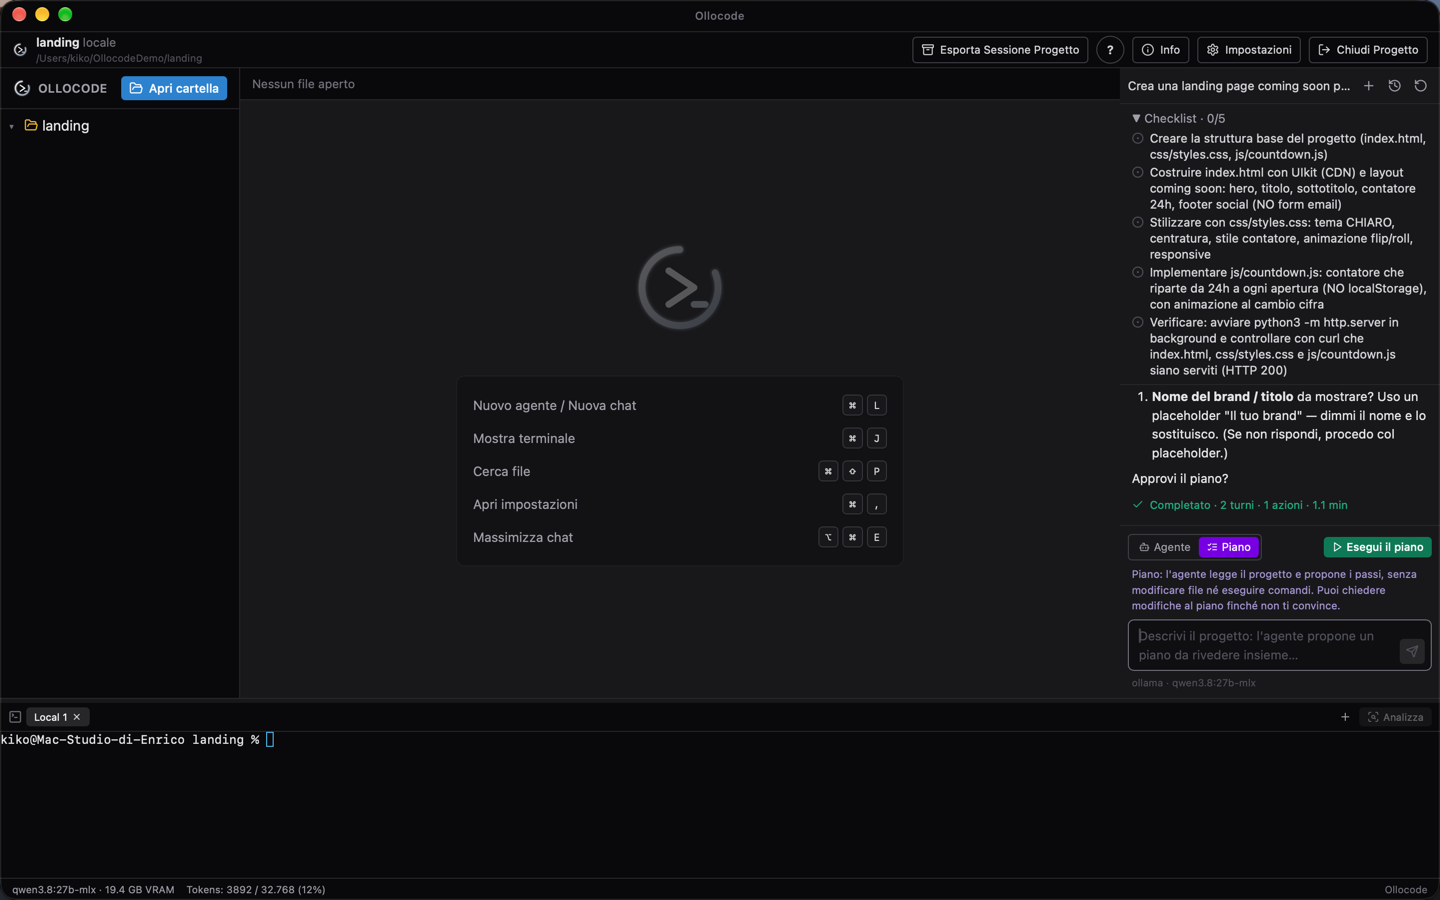
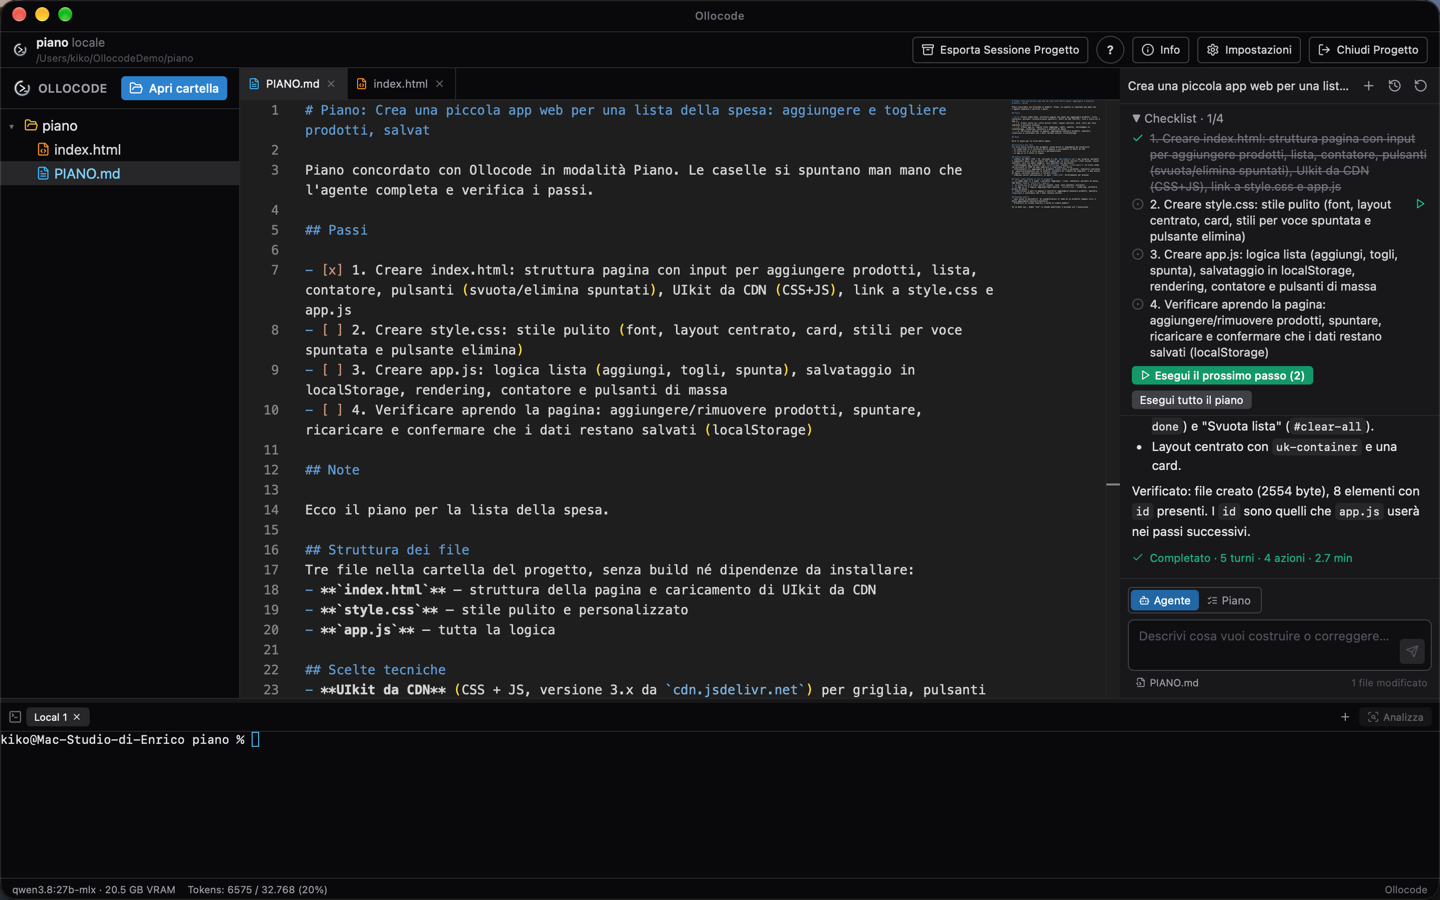
Ollocode 0.65.0

diff --git a/README.md b/README.md
@@ -48,7 +48,7 @@ I comandi dell'agente girano in una sandbox di macOS (scrittura solo nel progett
 
 ### Modalità Piano
 
-Prima di toccare i file puoi concordare il lavoro: in **Piano** l'agente legge il progetto e propone i passi, senza modificare nulla. Chiedi le modifiche che vuoi (togli un passo, cambia una scelta tecnica) finché il piano ti convince, poi premi **Esegui il piano**: l'agente lo esegue passo per passo e non considera finito il lavoro finché tutti i passi non sono completati e verificati.
+Prima di toccare i file puoi concordare il lavoro: in **Piano** l'agente legge il progetto e propone i passi, senza modificare nulla. Chiedi le modifiche che vuoi (togli un passo, cambia una scelta tecnica) finché il piano ti convince. Il piano viene salvato nel progetto come **PIANO.md**, con i passi in una checklist. Poi lo esegui **un passo alla volta** (▶ sul passo o *Esegui il prossimo passo*) oppure tutto insieme: ogni passo viene verificato e la sua casella in PIANO.md si spunta da sola.
 
 ![Modalità Piano](docs/screenshots/09-modalita-piano.png)
 

diff --git a/README.en.md b/README.en.md
@@ -50,7 +50,7 @@ Agent commands run in a macOS sandbox (writes allowed only in the project, tempo
 
 ### Plan mode
 
-You can agree on the work before any file is touched: in **Plan** mode the agent reads the project and proposes the steps without changing anything. Ask for any change (drop a step, change a technical choice) until you are happy with the plan, then press **Run the plan**: the agent carries it out step by step and does not consider the work done until every step is completed and verified.
+You can agree on the work before any file is touched: in **Plan** mode the agent reads the project and proposes the steps without changing anything. Ask for any change (drop a step, change a technical choice) until you are happy with the plan. The plan is saved in the project as **PLAN.md** (PIANO.md in Italian), with the steps as a checklist. Then run it **one step at a time** (▶ on a step or *Run the next step*) or all at once: each step is verified and its box in the plan file is ticked automatically.
 
 ![Plan mode](docs/screenshots/09-modalita-piano.png)
 
